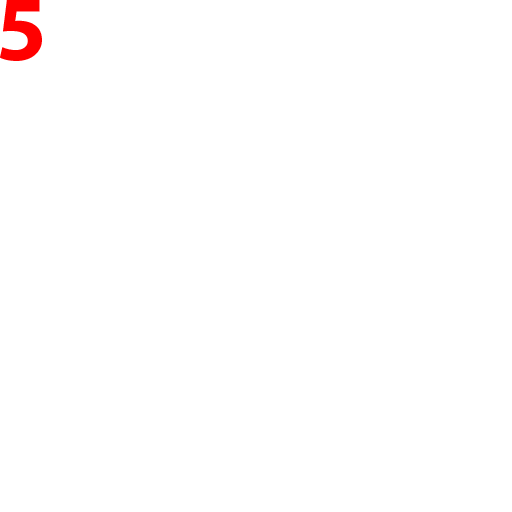
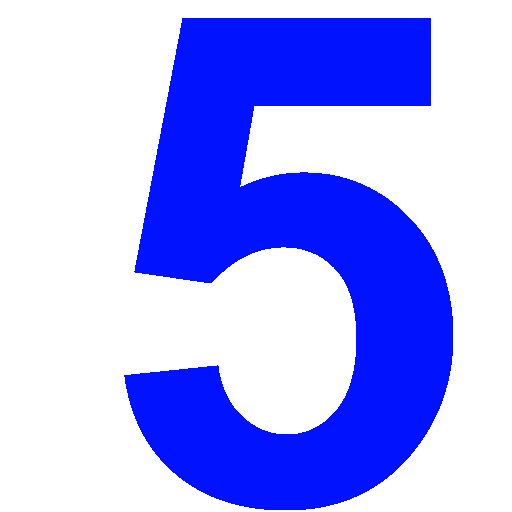
Fixing countdown number size and position
Countdown numbers are a visible size and fixed to the camera

diff --git a/vox/Source/vox/src/PuppetScene.cpp b/vox/Source/vox/src/PuppetScene.cpp
@@ -30,7 +30,7 @@
 #include <Arduino.h>
 #include <AccelerometerParser.h>
 #include <Accelerometer.h>
-
+#include <FollowCamera.h>
 #include <PuppetCharacter.h>
 #include <PuppetController.h>
 #include <RandomGround.h>
@@ -194,27 +194,67 @@ PuppetScene::PuppetScene(PuppetGame * _game, float seconds):
 	TextureSampler * countDown3TextureSampler = PuppetResourceManager::countDown3;
 	TextureSampler * countDown4TextureSampler = PuppetResourceManager::countDown4;
 	TextureSampler * countDown5TextureSampler = PuppetResourceManager::countDown5;
-
+	/*
 	Box2DSprite * countDown1 = new Box2DSprite(world, b2_staticBody, true, nullptr, new Transform(), countDown1TextureSampler->width, countDown1TextureSampler->height, countDown1TextureSampler->texture, 1.f);
 	Box2DSprite * countDown2 = new Box2DSprite(world, b2_staticBody, true, nullptr, new Transform(), countDown2TextureSampler->width, countDown2TextureSampler->height, countDown2TextureSampler->texture, 1.f);
 	Box2DSprite * countDown3 = new Box2DSprite(world, b2_staticBody, true, nullptr, new Transform(), countDown3TextureSampler->width, countDown3TextureSampler->height, countDown3TextureSampler->texture, 1.f);
 	Box2DSprite * countDown4 = new Box2DSprite(world, b2_staticBody, true, nullptr, new Transform(), countDown4TextureSampler->width, countDown4TextureSampler->height, countDown4TextureSampler->texture, 1.f);
 	Box2DSprite * countDown5 = new Box2DSprite(world, b2_staticBody, true, nullptr, new Transform(), countDown5TextureSampler->width, countDown5TextureSampler->height, countDown5TextureSampler->texture, 1.f);
+	*/
 
-	countDown1->transform->scale(glm::vec3(1000, 1000, 1000));
-	countDown2->transform->scale(glm::vec3(1000, 1000, 1000));
-	countDown3->transform->scale(glm::vec3(1000, 1000, 1000));
-	countDown4->transform->scale(glm::vec3(1000, 1000, 1000));
-	countDown5->transform->scale(glm::vec3(1000, 1000, 1000));
+	Sprite * countDown1 = new Sprite(nullptr, new Transform());
+	Sprite * countDown2 = new Sprite(nullptr, new Transform());
+	Sprite * countDown3 = new Sprite(nullptr, new Transform());
+	Sprite * countDown4 = new Sprite(nullptr, new Transform());
+	Sprite * countDown5 = new Sprite(nullptr, new Transform());
 
+	countDown1->transform->scale(glm::vec3(3, 3, 0));
+	countDown2->transform->scale(glm::vec3(3, 3, 0));
+	countDown3->transform->scale(glm::vec3(3, 3, 0));
+	countDown4->transform->scale(glm::vec3(3, 3, 0));
+	countDown5->transform->scale(glm::vec3(3, 3, 0));
+	
+	countDown1->mesh->pushTexture2D(countDown1TextureSampler->texture);
+	countDown2->mesh->pushTexture2D(countDown2TextureSampler->texture);
+	countDown3->mesh->pushTexture2D(countDown3TextureSampler->texture);
+	countDown4->mesh->pushTexture2D(countDown4TextureSampler->texture);
+	countDown5->mesh->pushTexture2D(countDown5TextureSampler->texture);
+	/*
+	countDown1->setUvs(vox::Rectangle(0, 0, 0.95, 0.1));
+	countDown2->setUvs(vox::Rectangle(0, 0, 0.95, 0.1));
+	countDown3->setUvs(vox::Rectangle(0, 0, 0.95, 0.1));
+	countDown4->setUvs(vox::Rectangle(0, 0, 0.95, 0.1));
+	countDown5->setUvs(vox::Rectangle(0, 0, 0.95, 0.1));
+	*/
 	countDownNumbers.push_back(countDown1);
 	countDownNumbers.push_back(countDown2);
 	countDownNumbers.push_back(countDown3);
 	countDownNumbers.push_back(countDown4);
 	countDownNumbers.push_back(countDown5);
-
-	for(Box2DSprite * n : countDownNumbers){
+	
+	for(Sprite * n : countDownNumbers){
 		n->setShader(shader, true);
+		n->transform->scale(-1, 1, 1);
+		//n->transform = mouseCamera->transform;
+		/*n->mesh->vertices.at(0).x *= 100;
+		n->mesh->vertices.at(0).y *= 100;
+		n->mesh->vertices.at(0).z *= 100;
+		n->mesh->vertices.at(1).x *= 100;
+		n->mesh->vertices.at(1).y *= 100;
+		n->mesh->vertices.at(1).z *= 100;
+		n->mesh->vertices.at(2).x *= 100;
+		n->mesh->vertices.at(2).y *= 100;
+		n->mesh->vertices.at(2).z *= 100;
+		n->mesh->vertices.at(3).x *= 100;
+		n->mesh->vertices.at(3).y *= 100;
+		n->mesh->vertices.at(3).z *= 100;*/
+		/*
+		n->mesh->vertices.at(0).x -= 10;
+		n->mesh->vertices.at(1).x -= 10;
+		n->mesh->vertices.at(2).x -= 10;
+		n->mesh->vertices.at(3).x -= 10;
+		n->mesh->dirty=true;
+		*/
 	}
 }
 
@@ -231,6 +271,11 @@ void PuppetScene::unload(){
 
 void PuppetScene::update(Step * _step){
 	Scene::update(_step);
+	for(Sprite * n : countDownNumbers){
+		n->transform->translationVector.x = gameCam->transform->translationVector.x;
+		n->transform->translationVector.y = gameCam->transform->translationVector.y;
+		n->transform->translationVector.z = 0;
+	}
 	
 	// destroy used up items
 	for(signed long int i = items.size()-1; i >= 0; --i){
@@ -384,4 +429,5 @@ void PuppetScene::doCountDown(){
 
 	// Add new number to scene
 	addChild(countDownNumbers.at(countDown), 2);
+
 }

diff --git a/vox/Source/vox/src/PuppetResourceManager.cpp b/vox/Source/vox/src/PuppetResourceManager.cpp
@@ -16,10 +16,10 @@ TextureSampler * PuppetResourceManager::face1 = new TextureSampler(new Texture("
 TextureSampler * PuppetResourceManager::hand1 = new TextureSampler(new Texture("../assets/hurly-burly/Hand1.png", 512, 512, true, true), 38, 32);
 
 TextureSampler * PuppetResourceManager::countDown1 = new TextureSampler(new Texture("../assets/hurly-burly/Countdown/1.png", 512, 512, true, true), 28, 60);
-TextureSampler * PuppetResourceManager::countDown2 = new TextureSampler(new Texture("../assets/hurly-burly/Countdown/2.png", 512, 512, true, true), 28, 60);
-TextureSampler * PuppetResourceManager::countDown3 = new TextureSampler(new Texture("../assets/hurly-burly/Countdown/3.png", 512, 512, true, true), 28, 60);
-TextureSampler * PuppetResourceManager::countDown4 = new TextureSampler(new Texture("../assets/hurly-burly/Countdown/4.png", 512, 512, true, true), 28, 60);
-TextureSampler * PuppetResourceManager::countDown5 = new TextureSampler(new Texture("../assets/hurly-burly/Countdown/5.png", 512, 512, true, true), 28, 60);
+TextureSampler * PuppetResourceManager::countDown2 = new TextureSampler(new Texture("../assets/hurly-burly/Countdown/2.png", 512, 512, true, true), 41, 62);
+TextureSampler * PuppetResourceManager::countDown3 = new TextureSampler(new Texture("../assets/hurly-burly/Countdown/3.png", 512, 512, true, true), 43, 65);
+TextureSampler * PuppetResourceManager::countDown4 = new TextureSampler(new Texture("../assets/hurly-burly/Countdown/4.png", 512, 512, true, true), 48, 60);
+TextureSampler * PuppetResourceManager::countDown5 = new TextureSampler(new Texture("../assets/hurly-burly/Countdown/5.png", 512, 512, true, true), 42, 61);
 
 PuppetResourceManager::PuppetResourceManager(){
 	RaidTheCastleResourceManager::init();

diff --git a/vox/Source/vox/src/RaidTheCastle.cpp b/vox/Source/vox/src/RaidTheCastle.cpp
@@ -96,8 +96,8 @@ RaidTheCastle::RaidTheCastle(PuppetGame* _game):
 	//playerCharacter4->behaviourManager.addBehaviour(new BehaviourPatrol(glm::vec3(50,0,0), glm::vec3(100,0,0), playerCharacter4, 10));
 	//playerCharacter4->ai = true;
 
-	gameCam->addTarget(castle->rootComponent);
-	gameCam->addTarget(catapult->rootComponent);
+	//gameCam->addTarget(castle->rootComponent);
+	//gameCam->addTarget(catapult->rootComponent);
 }
 
 RaidTheCastle::~RaidTheCastle(){

diff --git a/vox/Source/vox/include/PuppetScene.h b/vox/Source/vox/include/PuppetScene.h
@@ -38,7 +38,7 @@ public:
 	float duration;
 	float currentTime;
 	unsigned int countDown;
-	std::vector<Box2DSprite *> countDownNumbers;
+	std::vector<Sprite *> countDownNumbers;
 
 	PuppetContactListener * cl;
 	Box2DWorld * world;
